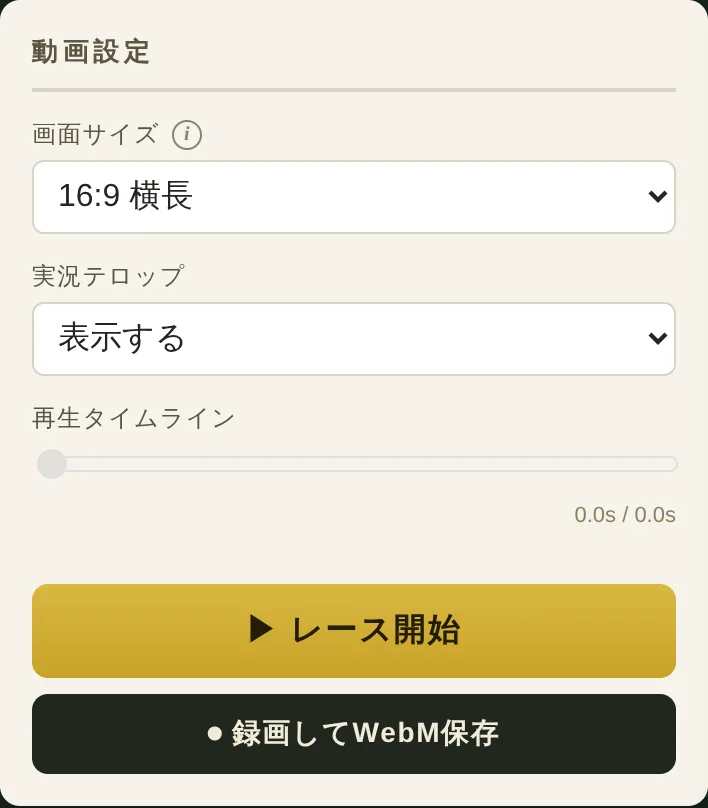
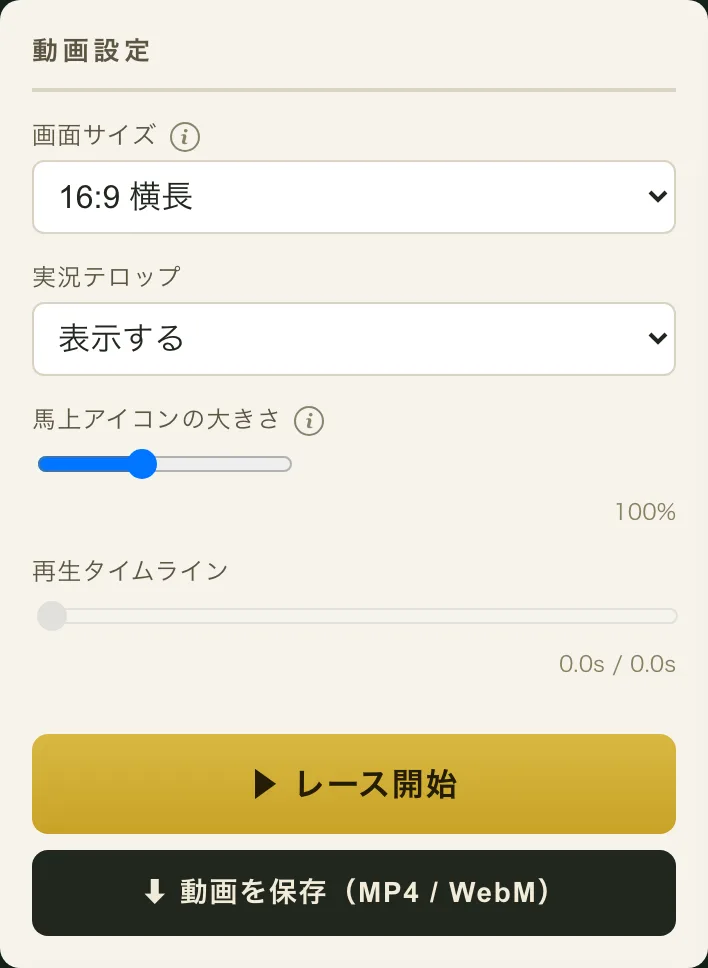
docs(ブログ): 有料プランの内容に合わせて記事とスクショを更新する
- バーチャートレースの作り方に「無料でできること・有料プランでできること」を追加
- 格付けダービーの作り方のレース設定・動画設定のスクショを現行画面（冠マーク付き）に差し替え、サウンドパネルのスクショを追加
- 設定項目表を「スタート前の演出」（ファンファーレは有料）に更新
- どこからも参照されていない画像・動画を削除

diff --git a/blog/how-to-make-horse-race-ranking-video/index.html b/blog/how-to-make-horse-race-ranking-video/index.html
@@ -92,7 +92,7 @@
     },
     "inLanguage": "ja",
     "datePublished": "2026-08-26",
-    "dateModified": "2026-11-15",
+    "dateModified": "2026-11-21",
     "about": {
       "@type": "SoftwareApplication",
       "name": "格付けダービー（競馬風ランキング動画メーカー）",
@@ -449,7 +449,7 @@
 
         <h1 class="rvg-title">競馬風の順位発表動画「格付けダービー」の作り方！2D・3D両ツールの詳しい使い方</h1>
         <div class="blog-meta">
-          <span>更新日: 2026.11.15</span>
+          <span>更新日: 2026.11.21</span>
           <span>カテゴリー: チュートリアル</span>
           <span>執筆: <a href="../../about.html" style="color: inherit; text-decoration: underline;">GraphRace Studio 開発者</a></span>
         </div>
@@ -642,8 +642,8 @@
         <h3 id="s3">「競馬風」（2D）のレース設定</h3>
 
         <figure class="fig fig-panel">
-          <img src="kakuzuke-derby-race-settings-2d.webp" alt="2Dモードのレース設定パネル。レース名、レース時間、展開の派手さ、カウントダウンの各項目" width="708" height="714" loading="lazy" decoding="async">
-          <figcaption>2Dは「秒数」で尺を決めます。</figcaption>
+          <img src="kakuzuke-derby-race-settings-2d.webp" alt="2Dモードのレース設定パネル。レース名、レース時間、展開の派手さ、スタート前の演出（ファンファーレを選択中）、ファンファーレの種類と音量の各項目。有料機能には冠マークが付いている" width="708" height="1006" loading="lazy" decoding="async">
+          <figcaption>2Dは「秒数」で尺を決めます。冠マークの付いた項目（ファンファーレなど）は有料機能ですが、プレビューでは無料で試せます。</figcaption>
         </figure>
 
         <div class="tw">
@@ -672,9 +672,9 @@
                 <td>道中の順位変動の大きさ。着順は変わりません</td>
               </tr>
               <tr>
-                <th>カウントダウン</th>
-                <td>あり／なし</td>
-                <td>スタート前に3秒のカウントを入れます</td>
+                <th>スタート前の演出</th>
+                <td>なし／カウントダウン（3秒）／ファンファーレ</td>
+                <td>スタート前に3秒のカウントか、ファンファーレ（有料プラン）を入れます</td>
               </tr>
             </tbody>
           </table>
@@ -696,7 +696,7 @@
         <p>3Dモードでは、尺の決め方が根本的に変わります。<strong>秒数ではなく「コース」を選び、その距離と実際の馬の走行速度から動画の長さが決まります。</strong></p>
 
         <figure class="fig fig-panel">
-          <img src="kakuzuke-derby-race-settings-3d.webp" alt="3Dモードのレース設定パネル。コース、回り、展開、カウントダウン、展開シードの各項目" width="708" height="1008" loading="lazy" decoding="async">
+          <img src="kakuzuke-derby-race-settings-3d.webp" alt="3Dモードのレース設定パネル。コース、回り、展開、スタート前の演出、ファンファーレの種類と音量、展開シードの各項目" width="708" height="1300" loading="lazy" decoding="async">
           <figcaption>パネル下部には、選んだコースの1周の長さや直線距離、動画の長さが表示されます。</figcaption>
         </figure>
 
@@ -867,7 +867,7 @@
         <h2 id="step3">STEP3：レースを走らせて動画に保存する</h2>
 
         <figure class="fig fig-panel">
-          <img src="kakuzuke-derby-video-settings.webp" alt="動画設定パネル。画面サイズ、実況テロップ、再生タイムライン、レース開始ボタンと動画の保存ボタン" width="708" height="808" loading="lazy" decoding="async">
+          <img src="kakuzuke-derby-video-settings.webp" alt="動画設定パネル。画面サイズ、実況テロップ、馬上アイコンの大きさ、再生タイムライン、レース開始ボタンと「動画を保存（MP4 / WebM）」ボタン" width="708" height="968" loading="lazy" decoding="async">
           <figcaption>「レース開始」でプレビュー、「動画を保存」で書き出しです。</figcaption>
         </figure>
 
@@ -973,6 +973,11 @@
           <a href="/pricing.html">有料プラン</a>では、スタート前のファンファーレ（設定の「スタート前の演出」）と、レース中の歓声・蹄の音（「サウンド」）をそのまま動画に入れられます。無料版で書き出す場合や、音を自分で設計したい場合は、音なしで書き出して編集ソフトで足します。実況風のBGMを道中に、ゴールの瞬間にシンバルを合わせるだけで、体感の盛り上がりは大きく変わります。素材の選び方は<a
             href="../how-to-make-ranking-announcement-video/#s3">順位発表動画の作り方</a>にまとめています。
         </p>
+
+        <figure class="fig fig-panel">
+          <img src="kakuzuke-derby-sound-settings.webp" alt="サウンドパネル。歓声・蹄の音を「入れる」にし、音量を80%にした状態。有料機能を示す冠マークが付いている" width="708" height="480" loading="lazy" decoding="async">
+          <figcaption>歓声・蹄の音は「サウンド」パネルで入れられます（有料プラン）。プレビューでは無料で音を確かめられます。</figcaption>
+        </figure>
 
         <div class="cta">
           <span class="bt">実際に走らせてみる</span>

diff --git a/blog/how-to-make-bar-chart-race/index.html b/blog/how-to-make-bar-chart-race/index.html
@@ -78,7 +78,7 @@
       }
     },
     "datePublished": "2026-07-02",
-    "dateModified": "2026-10-17"
+    "dateModified": "2026-11-21"
   }
   </script>
 
@@ -321,7 +321,7 @@
         </nav>
         <h1 class="blog-title">バーチャートレース（動く棒グラフ）の作り方完全ガイド｜初心者向け無料作成手順とコツ</h1>
         <div class="blog-meta">
-          <span>更新日: 2026.10.17</span>
+          <span>更新日: 2026.11.21</span>
           <span>カテゴリー: チュートリアル</span>
           <span>執筆: <a href="../../about.html" style="color: inherit; text-decoration: underline;">GraphRace Studio 開発者</a></span>
         </div>
@@ -476,6 +476,19 @@
         <p>
           書き出しはアニメーションを1コマずつ動画にする仕組みなので、画面録画のようにカクついたり、マウスカーソルや通知が映り込んだりすることはありません。スマホのブラウザからも書き出せます。迷ったら、iPhoneやAndroidでそのまま再生できるMP4を選んでおくと安心です。なお、LINEやInstagramなどアプリの中でページを開いていると保存できないことがあるので、SafariやChromeで開いてから作りましょう。完成した動画は、SNSやプレゼンテーションの素材としてそのまま使えます。
         </p>
+
+        <h3>無料でできること・有料プランでできること</h3>
+        <p>
+          データの読み込みからデザイン調整、プレビュー、動画の書き出しまでは無料で使えます。無料で書き出した動画は標準画質（540p）で、画面に「GraphRace Studio」の透かしが入ります。透かしはクレジット表記を兼ねているので、そのままSNSやYouTubeに投稿できます（商用利用も可）。
+        </p>
+        <p>次の機能は有料プラン（7日パス 980円／月額 1,580円／年額 3,480円）で使えます。設定パネルや書き出し画面では、金色の冠マークが付いている項目が有料機能です。プレビューでは無料で試せるので、仕上がりを確かめてから購入を決められます。</p>
+        <ul>
+          <li><strong>透かしなしの書き出し：</strong> 「GraphRace Studio」の透かしを消して書き出せます（クレジット表記も不要になります）。</li>
+          <li><strong>高画質（HD）・最高画質（2K）：</strong> 描画ごと高解像度にして書き出すので、大きな画面や編集での拡大にも耐えます。</li>
+          <li><strong>透過書き出し：</strong> 背景を透明にしたMOV・PNG連番で書き出し、動画編集ソフトで映像に重ねられます。</li>
+          <li><strong>角丸バー・画像をバーの右に置く：</strong> バーの端を丸くしたり、国旗やロゴをバーの右側に並べたりできます。</li>
+        </ul>
+        <p>どのプランでも使える機能は同じです。線グラフレース・円グラフレースでも、透かしなし・高画質以上・透過書き出しが有料プランの対象です。詳しくは<a href="/pricing.html">料金プラン</a>をご覧ください。</p>
 
         <div class="cta">
           <span class="bt">今すぐブラウザでバーチャートレースを作ってみる</span>
